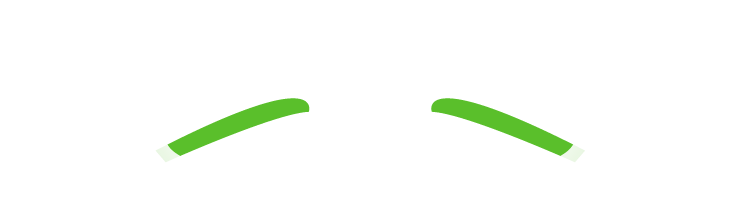
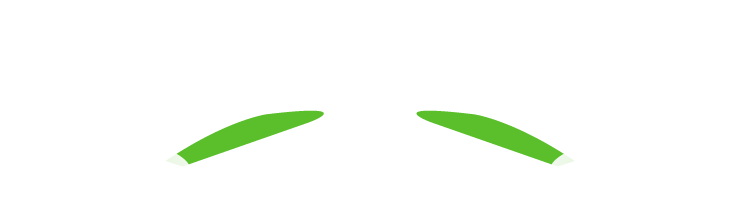
ACD01

Changed region(s): [[0.5595, 0.4324, 0.8081, 0.7297], [0.1865, 0.4324, 0.4351, 0.7568]]

diff --git a/public/html/glaucomascrollImages.html b/public/html/glaucomascrollImages.html
@@ -1087,6 +1087,7 @@
         position: relative;
         width: 320px;
         height: min(62vh, 520px);
+        --acd-stage-shift-y: 40px;
         background: #000;
         border-radius: 16px;
         overflow: hidden;
@@ -1098,7 +1099,7 @@
       #glaucomaACDInteractive #acdEyesImg {
         position: absolute;
         left: 50%;
-        top: 52%;
+        top: calc(46% + var(--acd-stage-shift-y));
         transform: translate(-50%, -50%);
         width: min(92%, 720px);
         height: auto;
@@ -1109,7 +1110,7 @@
       #glaucomaACDInteractive #acdCrescentRight {
         position: absolute;
         left: 236px;
-        top: 246px;
+        top: calc(218px + var(--acd-stage-shift-y));
         transform: translate(-50%, -50%) scaleX(-1);
         width: 50px;
         height: 32px;
@@ -1137,7 +1138,7 @@
       #glaucomaACDInteractive #acdShadowImg {
         position: absolute;
         left: 214px;
-        top: 65px;
+        top: calc(65px + var(--acd-stage-shift-y));
         transform: translate(-50%, -50%);
         width: 29px;
         height: 17px;
@@ -1157,25 +1158,27 @@
         display: none;
       }
       #glaucomaACDInteractive #acdNormalFlashImg {
-        top: 46px;
+        top: calc(46px + var(--acd-stage-shift-y));
         left: -31px;
-        width: 80px;
+        width: 53px;
         z-index: 999;
+        top: 78px;
       }
       #glaucomaACDInteractive #acdNormalArrowImg {
-        top: 60px;
+        top: calc(60px + var(--acd-stage-shift-y));
         left: -48px;
         width: 192px;
         transform: scaleX(-1);
       }
       #glaucomaACDInteractive #acdShallowFlashImg {
-        top: 47px;
-        right: -33px;
-        width: 83px;
+        top: calc(47px + var(--acd-stage-shift-y));
+        right: -16px;
+        width: 53px;
         z-index: 999;
+        top: 78px;
       }
       #glaucomaACDInteractive #acdShallowArrowImg {
-        top: 65px;
+        top: calc(65px + var(--acd-stage-shift-y));
         right: -23px;
         width: 124px;
       }
@@ -1199,8 +1202,8 @@
       /* flashlight OFF (pickup) */
       #glaucomaACDInteractive #acdFlashlightOff {
         position: absolute;
-        top: 56%;
-        left: 95%;
+        top: calc(276px + var(--acd-stage-shift-y));
+        left: 94%;
         transform: translate(-50%, -50%);
         width: 14px;
         height: auto;
@@ -1215,7 +1218,7 @@
       /* speech bubble */
       #glaucomaACDInteractive #acdBubble {
         position: absolute;
-        top: 26%;
+        top: calc(26% + var(--acd-stage-shift-y));
         left: 72%;
         transform: translate(-50%, -50%);
         width: 40vw;
@@ -1243,7 +1246,7 @@
       /* flashlight ON (left + right), initially hidden */
       #glaucomaACDInteractive .acd-flashlight {
         position: absolute;
-        top: 304px;
+        top: calc(276px + var(--acd-stage-shift-y));
         width: 94px;
         height: auto;
         transform: translate(-50%, -50%);
@@ -1276,6 +1279,10 @@
         pointer-events: none;
         white-space: nowrap;
         text-align: center;
+      }
+
+      #glaucomaACDInteractive .acd-label {
+        top: calc(53px + var(--acd-stage-shift-y));
       }
 
       /* label images */
@@ -1378,7 +1385,7 @@
             aria-hidden="true"
             draggable="false"
           />
-          <span class="acd-label-text">Deep<br />Anterior<br />Chamber</span>
+          <span class="acd-label-text">Deep AC</span>
         </div>
 
         <div id="acdLabelRight" class="acd-label">
@@ -1390,7 +1397,7 @@
             aria-hidden="true"
             draggable="false"
           />
-          <span class="acd-label-text">Shallow<br />Anterior<br />Chamber</span>
+          <span class="acd-label-text">Shallow AC</span>
         </div>
 
         <!-- pickup flashlight (off) -->

diff --git a/public/js/glaucomaWorkshop.js b/public/js/glaucomaWorkshop.js
@@ -681,7 +681,27 @@ function initGlaucomaACDInteractive() {
 
       if (hint) hint.style.opacity = "1";
 
+      // Keep pickup flashlight aligned with the default RIGHT flashlight position.
+      const previewBaseInset = rect.width * 0.06;
+      const previewTravel = rect.width * 0.2;
+      const previewRightX = rect.width - previewBaseInset + previewTravel * 0;
+      const previewWidth =
+        parseFloat(getComputedStyle(flashlightRight).width) ||
+        parseFloat(getComputedStyle(flashlightLeft).width) ||
+        94;
+      const previewHalf = previewWidth / 2;
+      const previewRightClamped = clamp(
+        previewRightX,
+        previewHalf,
+        rect.width - previewHalf,
+      );
+      const previewTopPx = parseFloat(getComputedStyle(flashlightRight).top);
+
       flashlightOff.style.display = "";
+      flashlightOff.style.left = `${previewRightClamped}px`;
+      if (Number.isFinite(previewTopPx)) {
+        flashlightOff.style.top = `${previewTopPx}px`;
+      }
       bubble.style.display = "";
       return;
     }
